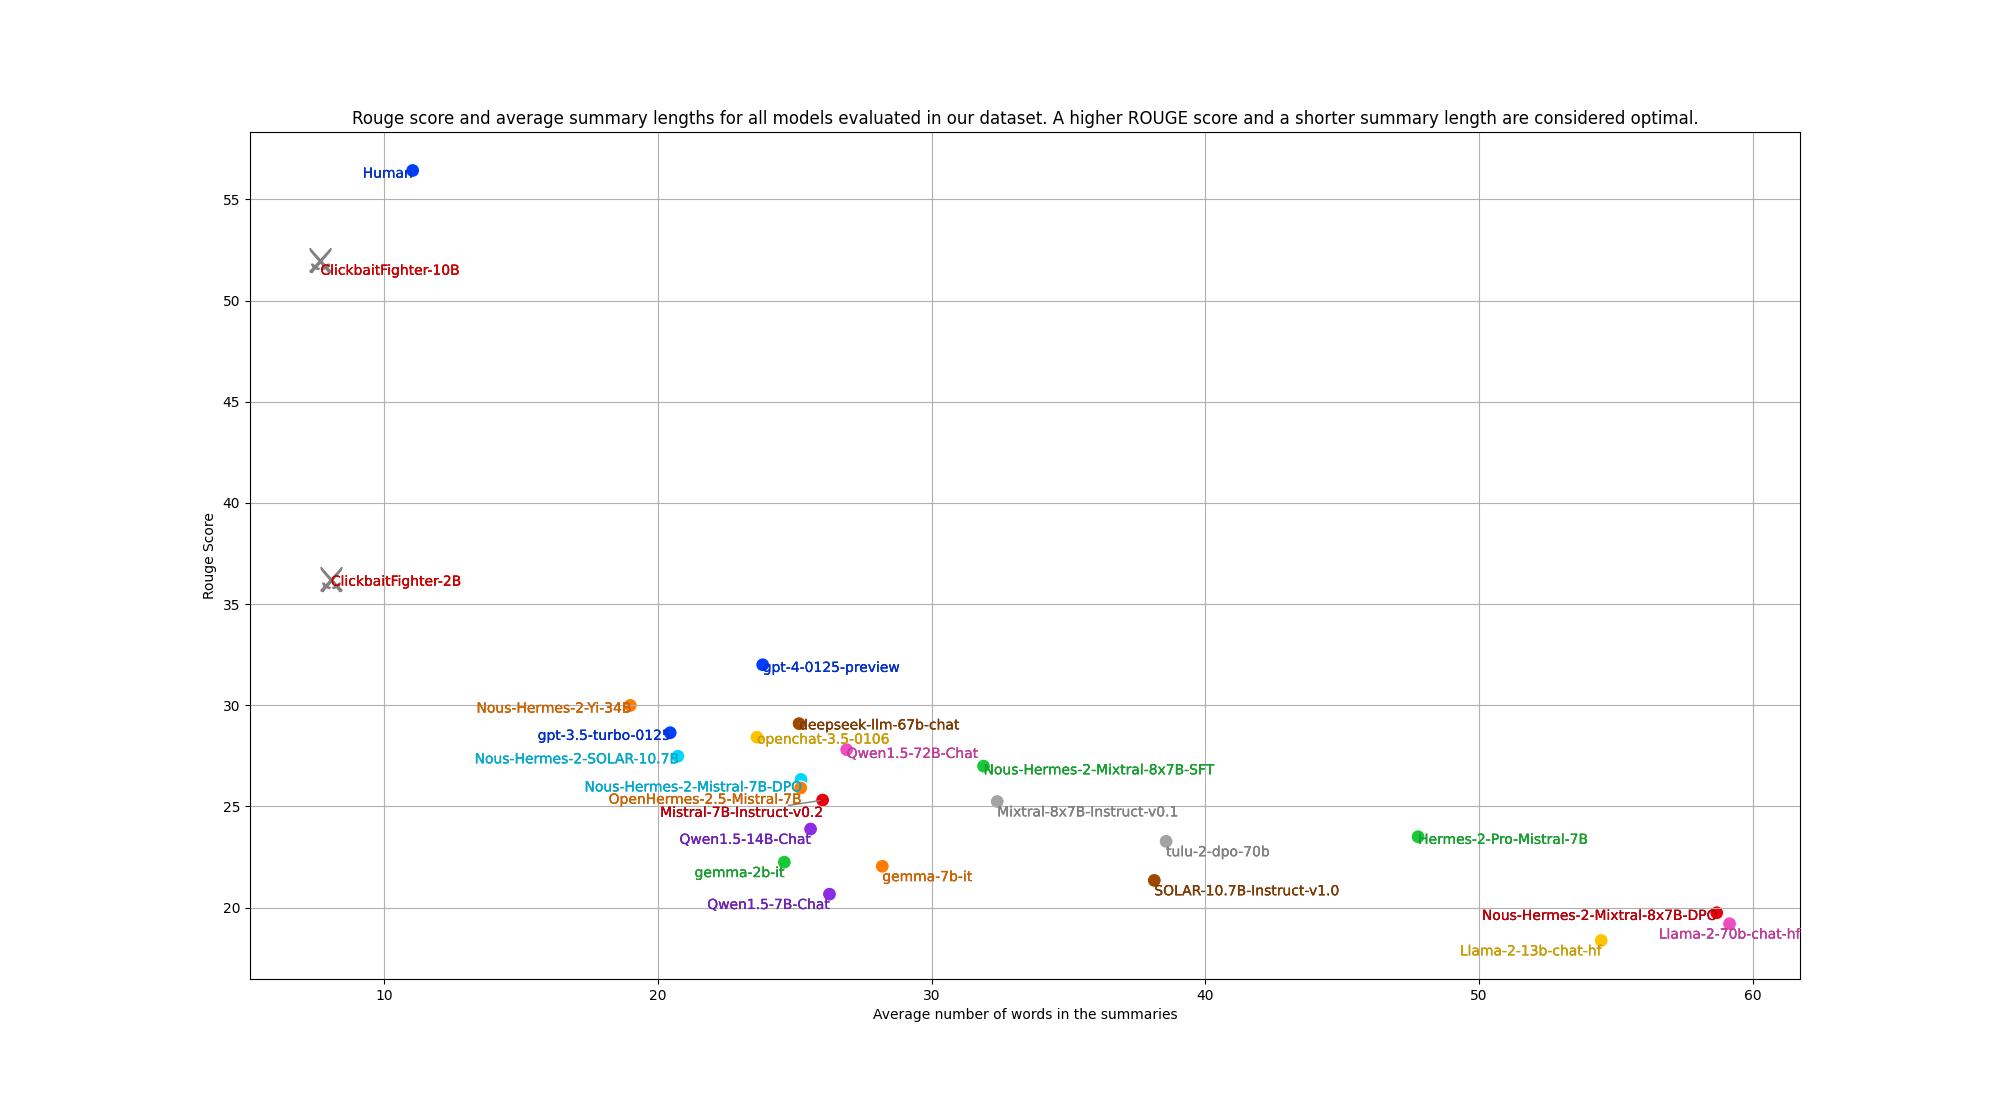
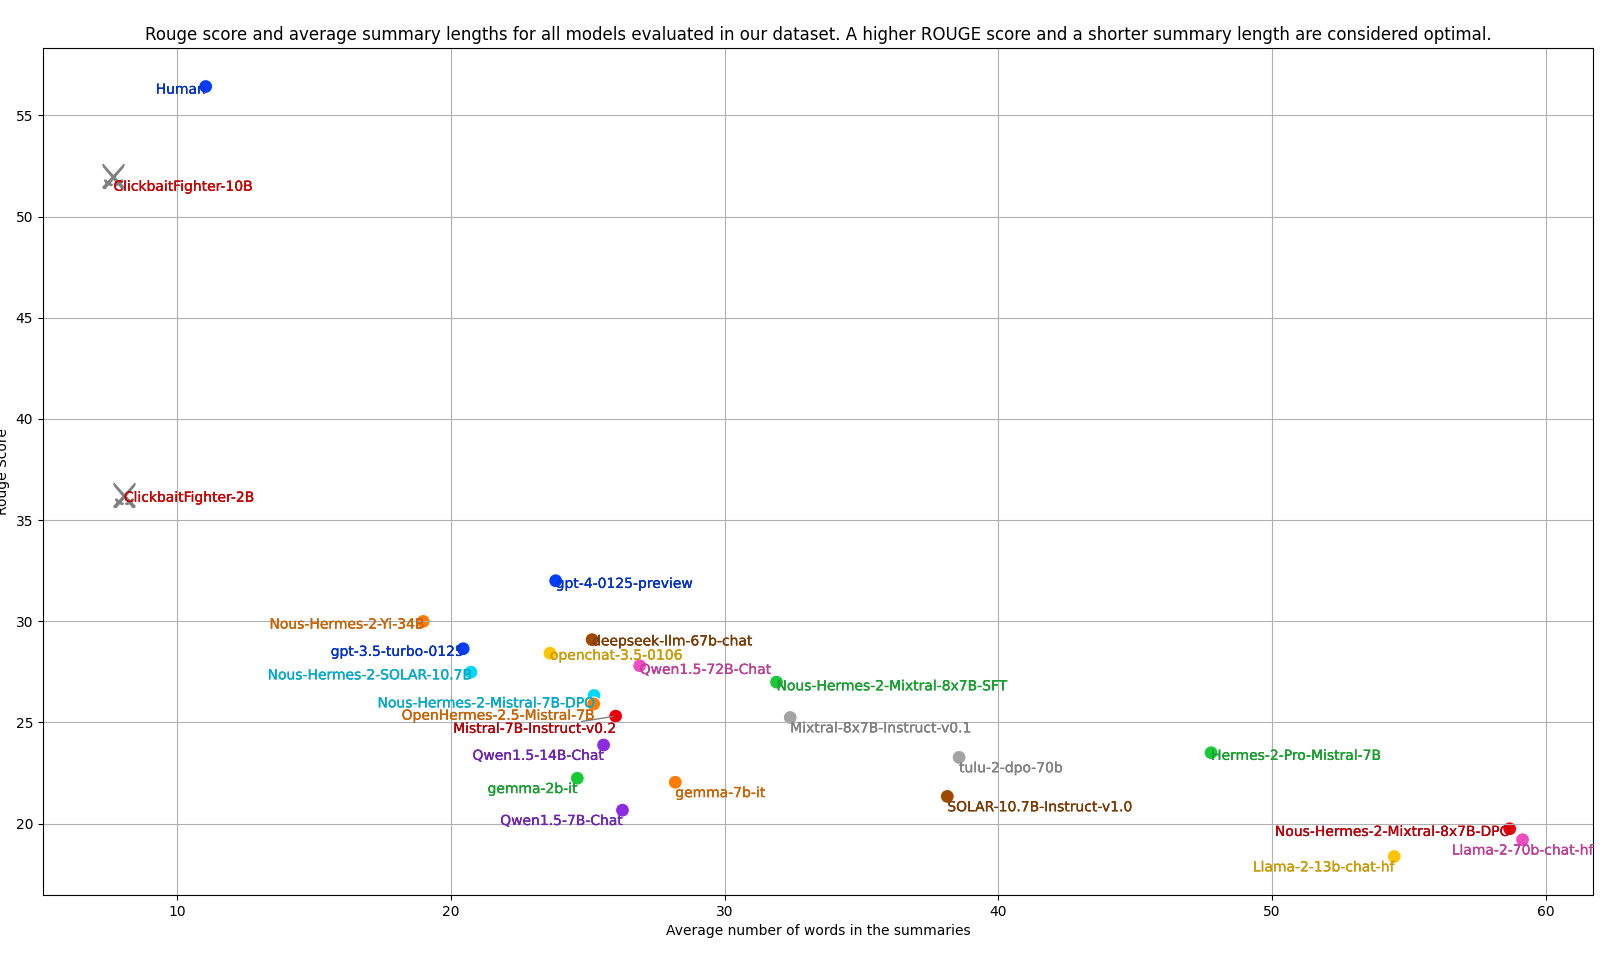
Update results

diff --git a/README.md b/README.md
@@ -38,7 +38,7 @@ Que los estudiantes vuelven a clase.
 ```
 
 <p align="center">
-    <img src="results/Results.png" style="height: 250px;">
+    <img src="results/Results.png" style="height: 450px;">
 </p>
 
 
